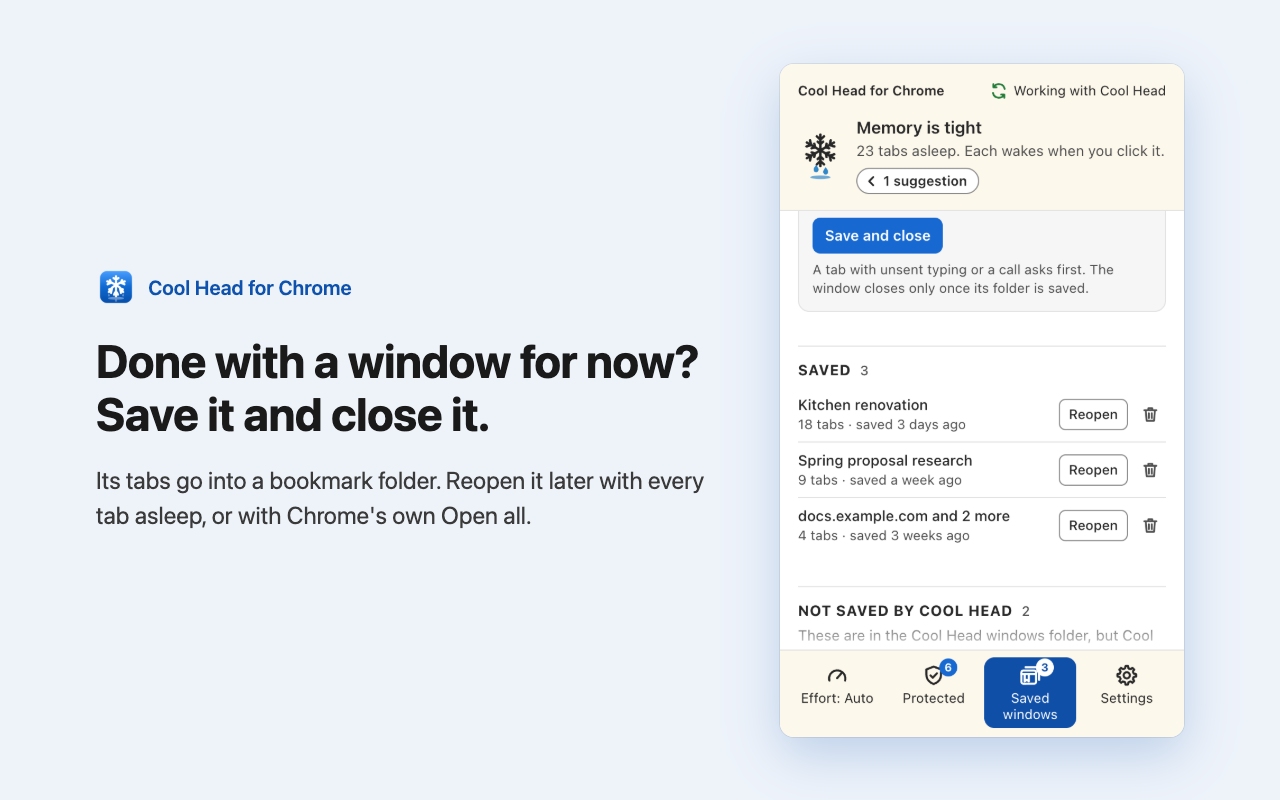
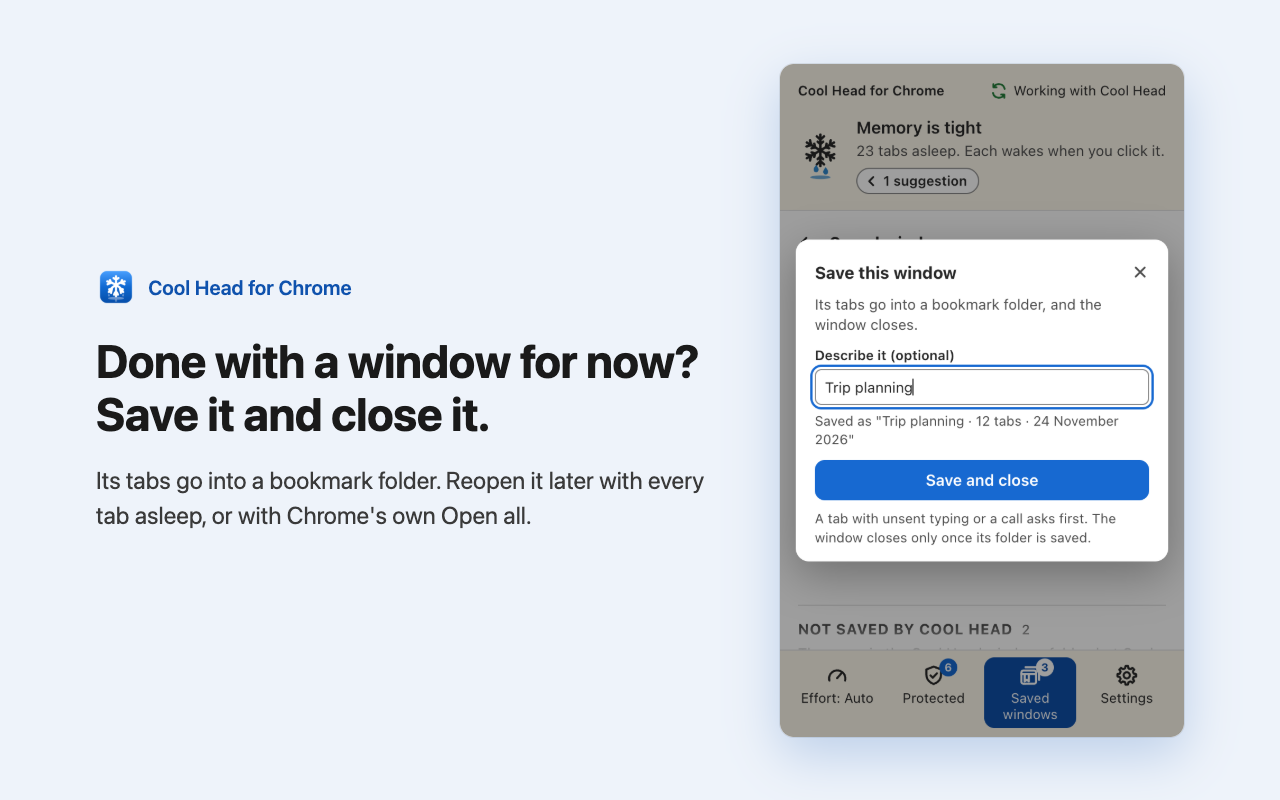
Cool Head for Chrome: a save dialog for Save this window, and a back arrow on each tool
Saved windows shows Save this window at the top, which opens a dialog over the list with the words, the folder's name as it will be, any warning, and Save and close. Command-Shift-Y, now named Save this window, opens the dialog directly. Its X, Escape, or a click outside it goes back to the list; what is under it is inert while it is open. A save that leaves the window open says why in the dialog, and a tab found risky only at the press asks first, as the first press does.

Each tool has a back arrow beside its title in place of the X, which is kept for cancelling a task.

Assisted-by: Claude Code:claude-opus-5-5

Changed region(s): [[0.5938, 0.0625, 0.9375, 0.9375]]

diff --git a/Extension/chrome/popup/render.js b/Extension/chrome/popup/render.js
@@ -159,7 +159,7 @@ function protectedScreen(view, ui, on) {
     tabs.append(h('p', { class: 'lede', text: W.PROTECTED_LEDE }),
       h('ul', { class: 'tabs', 'aria-labelledby': 'p-tabs' }, view.held.tabs.map((r) => heldRow(r, ui, on))));
   }
-  const main = h('main', { class: 'middle', 'aria-label': W.PROTECTED }, screenTitle(W.PROTECTED, 'shield', on), tabs, sitesPart(view, on), extensionsPart(view, ui, on));
+  const main = h('main', { class: 'middle', 'aria-label': W.PROTECTED }, screenTitle(W.PROTECTED, on), tabs, sitesPart(view, on), extensionsPart(view, ui, on));
   return [band(view, ui, on), main, toolbar(view, ui, on)];
 }
 
@@ -306,7 +306,7 @@ function effortScreen(view, ui, on) {
   // What the chosen level is doing right now, when that's more than its line says (view.js).
   const status = l.status;
   const main = h('main', { class: 'middle', 'aria-label': W.LEVEL_LABEL },
-    screenTitle(W.LEVEL_LABEL, 'gauge', on),
+    screenTitle(W.LEVEL_LABEL, on),
     h('div', { class: 'levelrows', role: 'radiogroup', 'aria-label': W.LEVEL_LABEL }, rows),
     status ? h('p', { class: 'note', text: status }) : null,
     l.needs ? h('p', { class: 'note', id: 'auto-needs', text: l.needs }) : null);
@@ -354,8 +354,8 @@ function windowsTool(view, ui, on, tool) {
 
 // ---------- saved windows ----------
 
-// Save this window: a few words to name its folder, with the whole name shown as it will be, and Save and close.
-// Below, each saved window with Reopen and Remove, both asking first in the row itself; then anything in the parent
+// Save this window: a button that opens a dialog over the tool, with a few words to name its folder, the whole name
+// shown as it will be, and Save and close. Below, each saved window with Reopen and Remove, both asking first in the row itself; then anything in the parent
 // folder Cool Head didn't put there, with Tidy, which moves it out and never deletes it.
 function windowsScreen(view, ui, on) {
   const w = view.windows;
@@ -365,15 +365,24 @@ function windowsScreen(view, ui, on) {
     'data-key': 'window-words', oninput: (e) => on.windowWords(e.target.value),
     onkeydown: (e) => { if (e.key === 'Enter') on.saveWindow(e.target.value); } });
   const risky = ui.windowRisky && w.risky.length;
-  const save = h('section', { class: 'card', 'aria-labelledby': 'win-save-h' },
-    h('h2', { id: 'win-save-h', text: W.WINDOWS_SAVE_TITLE }),
-    h('p', { text: W.WINDOWS_SAVE_WHY }),
-    h('label', { class: 'field' }, W.WINDOWS_DESCRIBE, input),
-    h('p', { class: 'savedas', 'aria-live': 'polite', text: W.windowsSavedAs(name) }),
-    risky ? h('div', { class: 'warn', id: 'win-risky' }, icon('warn'), h('span', { text: W.windowsRisky(w.risky) })) : null,
-    h('div', { class: 'row' }, h('button', { class: 'btn primary', 'data-key': 'window-save', 'aria-describedby': risky ? 'win-risky' : null,
-      onclick: () => on.saveWindow(input.value) }, risky ? W.WINDOWS_SAVE_ANYWAY : W.WINDOWS_SAVE)),
-    h('p', { class: 'note', text: w.granted ? W.WINDOWS_SAVE_NOTE : `${W.WINDOWS_SAVE_NOTE} ${W.WINDOWS_ASKS}` }));
+  // The tool shows Save this window as a button; the dialog it opens sits over the tool, holding the words, the name
+  // as it will be, any warning, and Save and close. Its X goes back to the tool; the shortcut opens it directly.
+  const opener = h('div', { class: 'winopen' },
+    h('button', { class: 'btn primary wide', 'data-key': 'window-open', 'aria-haspopup': 'dialog', onclick: on.saveDialog }, W.SAVE_DIALOG_OPEN),
+    h('p', { class: 'note', text: W.SAVE_DIALOG_LEDE }));
+  const dialog = ui.saveDialog ? h('div', { class: 'veil', onclick: (e) => { if (e.target === e.currentTarget) on.closeDialog(); } },
+    h('section', { class: 'dialog', role: 'dialog', 'aria-modal': 'true', 'aria-labelledby': 'win-dlg-h', 'aria-describedby': 'win-dlg-p' },
+      h('div', { class: 'screenhead' }, h('h2', { id: 'win-dlg-h', text: W.SAVE_DIALOG_TITLE }),
+        h('button', { class: 'iconbtn', 'aria-label': W.CLOSE_DIALOG, title: W.CLOSE_DIALOG, 'data-key': 'close-dialog', onclick: on.closeDialog }, icon('x'))),
+      h('p', { class: 'lede', id: 'win-dlg-p', text: W.SAVE_DIALOG_LEDE }),
+      h('label', { class: 'field' }, W.WINDOWS_DESCRIBE, input),
+      h('p', { class: 'savedas', 'aria-live': 'polite', text: W.windowsSavedAs(name) }),
+      risky ? h('div', { class: 'warn', id: 'win-risky' }, icon('warn'), h('span', { text: W.windowsRisky(w.risky) })) : null,
+      // why the last Save didn't close the window; already said aloud, so not a live region itself
+      ui.windowSaid ? h('div', { class: 'warn', 'data-key': 'window-said' }, icon('warn'), h('span', { text: ui.windowSaid })) : null,
+      h('button', { class: 'btn primary wide', 'data-key': 'window-save', 'aria-describedby': risky ? 'win-risky' : null,
+        onclick: () => on.saveWindow(input.value) }, risky ? W.WINDOWS_SAVE_ANYWAY : W.WINDOWS_SAVE),
+      h('p', { class: 'note', text: w.granted ? W.WINDOWS_SAVE_NOTE : `${W.WINDOWS_SAVE_NOTE} ${W.WINDOWS_ASKS}` }))) : null;
   const saved = h('section', { class: 'part', 'aria-labelledby': 'win-list-h' },
     h('h3', { class: 'parthead', id: 'win-list-h' }, W.WINDOWS_SAVED, h('span', { class: 'count', text: String(w.saved.length) })));
   if (!w.saved.length) saved.append(h('p', { class: 'lede', text: W.WINDOWS_EMPTY }));
@@ -383,8 +392,11 @@ function windowsScreen(view, ui, on) {
     h('p', { class: 'lede', text: W.WINDOWS_OTHERS_WHY }),
     h('ul', { class: 'sitelist' }, w.others.map((o) => h('li', { class: 'ext' }, h('span', { class: 'tabmain' }, h('span', { class: 'tabtitle', title: o.title, text: o.title }))))),
     h('div', { class: 'row' }, h('button', { class: 'btn', 'data-key': 'win-tidy', onclick: on.tidyWindows }, W.WINDOWS_TIDY))) : null;
-  const main = h('main', { class: 'middle', 'aria-label': W.WINDOWS }, screenTitle(W.WINDOWS, 'windowSaved', on), save, saved, others);
-  return [band(view, ui, on), main, toolbar(view, ui, on)];
+  const main = h('main', { class: 'middle', 'aria-label': W.WINDOWS }, screenTitle(W.WINDOWS, on), opener, saved, others);
+  const parts = [band(view, ui, on), main, toolbar(view, ui, on)];
+  // While the dialog is open, everything under it is out of reach of the keyboard and screen readers.
+  if (dialog) for (const p of parts) p.inert = true;
+  return [...parts, dialog];
 }
 
 // A saved window: its words, with its count and age under them, Reopen, and a small bin to remove it. Either asks in
@@ -472,13 +484,12 @@ function startScreen(view, ui, on) {
 
 // ---------- settings ----------
 
-// A tool's title: its icon and name, and a close button, as Cool Head's tools have. The pill in the band, the band,
-// and the tool again go back home too.
-function screenTitle(title, ico, on) {
+// A tool's title: a back arrow before its name, which goes back a level, home; an X is kept for cancelling a task, as
+// Start a session and the save dialog do. The pill in the band, the band, and the tool again go back home too.
+function screenTitle(title, on) {
   return h('div', { class: 'screenhead' },
-    h('span', { class: 'headicon', 'aria-hidden': 'true' }, icon(ico)),
-    h('h2', { text: title }),
-    h('button', { class: 'iconbtn', 'aria-label': W.CLOSE_TOOL, title: W.CLOSE_TOOL, 'data-key': 'close-tool', onclick: on.home }, icon('x')));
+    h('button', { class: 'iconbtn back', 'aria-label': W.BACK, title: W.BACK, 'data-key': 'tool-back', onclick: on.home }, icon('back')),
+    h('h2', { text: title }));
 }
 
 function radio(name, value, checked, title, why, onchange) {
@@ -490,7 +501,7 @@ function radio(name, value, checked, title, why, onchange) {
 function settingsScreen(view, ui, on) {
   const st = view.settings;
   const main = h('main', { class: 'middle', 'aria-label': W.SETTINGS },
-    screenTitle(W.SETTINGS, 'gear', on),
+    screenTitle(W.SETTINGS, on),
     // while tabs are moving, how far along, with no button to start another move
     view.migrate?.running ? h('section', { class: 'card', 'aria-labelledby': 'mig-h' },
       h('h2', { id: 'mig-h', text: W.MIGRATE_SETTINGS }),
@@ -583,7 +594,7 @@ function migrateScreen(view, ui, on) {
         h('button', { class: 'btn', 'data-key': 'mig-later', onclick: on.migrateLater }, W.MIGRATE_LATER)));
   }
   const main = h('main', { class: 'middle', 'aria-label': W.MIGRATE_TITLE },
-    screenTitle(W.MIGRATE_TITLE, 'tray', { home: m.running || m.result ? on.migrateClose : on.migrateLater }),
+    screenTitle(W.MIGRATE_TITLE, { home: m.running || m.result ? on.migrateClose : on.migrateLater }),
     h('section', { class: 'card migrate' }, ...body));
   return [band(view, ui, on), main, toolbar(view, ui, on)];
 }
@@ -597,7 +608,7 @@ export function render(root, view, ui, on) {
   const focusKey = document.activeElement?.dataset?.key;
   const scroll = root.querySelector('main')?.scrollTop ?? 0;
   const sameScreen = root.dataset.screen === ui.screen;
-  root.replaceChildren(...parts);
+  root.replaceChildren(...parts.filter(Boolean));
   root.dataset.screen = ui.screen;
   const main = root.querySelector('main');
   if (main && sameScreen) main.scrollTop = scroll;

diff --git a/Extension/chrome/popup/popup.js b/Extension/chrome/popup/popup.js
@@ -25,6 +25,11 @@ const ui = {
   windowWords: '',      // Saved windows: the words typed for the folder's name
   confirmWindow: null,  // { id, action: 'reopen' | 'remove' }: the saved window asking in its row
   windowRisky: false,   // Save and close was pressed with tabs that have unsent typing or a call; the next press closes
+  // The save dialog over Saved windows: opened by its button or the shortcut, closed by its X, Escape, a click
+  // outside it, leaving the tool, or the window closing with the popup. windowSaid is why a save didn't close the
+  // window (nothing to save, a tab not saved), shown in the dialog until it closes or Save is pressed again.
+  saveDialog: false,
+  windowSaid: null,
 };
 const BOOKMARKS = { permissions: ['bookmarks'] };
 let view = null;
@@ -61,11 +66,10 @@ async function refresh() {
   }
   // Tabs a suspender holds are offered once, when the popup first finds them, unless the person put it off; a move
   // under way, or its result, shows whenever the popup opens.
-  // the shortcut for saving a window opens the popup at Saved windows, ready for its words
+  // the shortcut for saving a window opens the popup at Saved windows with its dialog open, ready for the words
   if (view.openScreen === 'windows') {
     ui.screen = 'windows';
-    draw();
-    root.querySelector('[data-key="window-words"]')?.focus();
+    on.saveDialog();
     return;
   }
   const m = view.migrate;
@@ -106,6 +110,8 @@ async function openTool(screen) {
   ui.confirm = null;
   ui.confirmWindow = null;
   ui.windowRisky = false;
+  ui.saveDialog = false;
+  ui.windowSaid = null;
   draw();
 }
 
@@ -113,6 +119,24 @@ const on = {
   openSettings() { openTool('settings').catch(console.error); },
   openProtected() { openTool('protected').catch(console.error); },
   openWindows() { openTool('windows').catch(console.error); },
+  // The dialog opens with the words typed before, if any, and focus in its field; closing it goes back to the tool,
+  // focus on the button that opens it again.
+  saveDialog() {
+    ui.saveDialog = true;
+    ui.confirmWindow = null;
+    ui.windowRisky = false;
+    ui.windowSaid = null;
+    draw();
+    root.querySelector('[data-key="window-words"]')?.focus();
+  },
+  closeDialog() {
+    if (!ui.saveDialog) return;
+    ui.saveDialog = false;
+    ui.windowRisky = false;
+    ui.windowSaid = null;
+    draw();
+    root.querySelector('[data-key="window-open"]')?.focus({ preventScroll: true });
+  },
   // Typing updates the folder's name shown under the field, without a redraw, which would move the caret.
   windowWords(v) {
     ui.windowWords = v;
@@ -129,18 +153,28 @@ const on = {
       if (!ok) return;
       view = await ask({ type: 'view' });
     }
+    ui.windowSaid = null;
     if (view.windows.risky.length && !ui.windowRisky) {
       ui.windowRisky = true;
       draw();
       announce(W.windowsRisky(view.windows.risky));
       return;
     }
-    await act({ action: 'saveWindow', words, anyway: ui.windowRisky });
+    // Saved, the window closes and the popup with it; still here, the save didn't go through, and the dialog says why.
+    const r = await act({ action: 'saveWindow', words, anyway: ui.windowRisky });
+    // A tab found risky only now (the view was a moment old) asks as the first press does, so the next press saves.
+    if (!ui.saveDialog || !r.said) return;
+    if (!ui.windowRisky && r.view.windows.risky.length) ui.windowRisky = true;
+    else ui.windowSaid = r.said;
+    draw();
   },
+  // Asking in a row; Cancel puts focus back on the button that asked.
   askWindow(id, action) {
+    const was = ui.confirmWindow;
     ui.confirmWindow = id ? { id, action } : null;
     draw();
-    root.querySelector(`[data-key="${id ? `win-yes-${id}` : 'window-words'}"]`)?.focus({ preventScroll: true });
+    const back = was ? `win-${was.action}-${was.id}` : 'window-open';
+    root.querySelector(`[data-key="${id ? `win-yes-${id}` : back}"]`)?.focus({ preventScroll: true });
   },
   reopenWindow(id) { ui.confirmWindow = null; act({ action: 'reopenWindow', id }); },
   removeWindow(id) { ui.confirmWindow = null; act({ action: 'removeWindow', id }); },
@@ -303,6 +337,16 @@ function soon() {
   }, 200);
 }
 chrome.storage.onChanged.addListener(soon);
+
+// Escape closes the save dialog, back to the tool, rather than the whole popup; Tab stays inside the dialog, since
+// what is under it is inert.
+document.addEventListener('keydown', (e) => {
+  if (e.key === 'Escape' && ui.saveDialog) {
+    e.preventDefault();
+    e.stopPropagation();
+    on.closeDialog();
+  }
+}, { capture: true });
 for (const ev of [chrome.tabs.onUpdated, chrome.tabs.onRemoved, chrome.tabs.onCreated, chrome.tabs.onActivated]) ev.addListener(soon);
 
 refresh().catch((e) => {

diff --git a/Extension/chrome/popup/popup.css b/Extension/chrome/popup/popup.css
@@ -38,7 +38,7 @@ svg { flex: none; }
 .vh { position: absolute !important; width: 1px; height: 1px; margin: -1px; padding: 0; overflow: hidden; clip: rect(0 0 0 0); white-space: nowrap; border: 0; }
 
 /* Chrome caps a popup at 600 px: the band and the level bar stay put; the middle scrolls. */
-.popup { width: 360px; max-height: 600px; display: flex; flex-direction: column; overflow: hidden; background: var(--bg); }
+.popup { position: relative; width: 360px; max-height: 600px; display: flex; flex-direction: column; overflow: hidden; background: var(--bg); }
 .popup > header, .popup > footer { flex: none; }
 .popup > main { flex: 1 1 auto; min-height: 0; overflow-y: auto; }
 .popup > main.more-below { -webkit-mask-image: linear-gradient(to bottom, #000 calc(100% - 28px), rgba(0, 0, 0, 0.25)); mask-image: linear-gradient(to bottom, #000 calc(100% - 28px), rgba(0, 0, 0, 0.25)); }
@@ -158,8 +158,7 @@ button.tabtitle.show:hover svg { color: var(--accent); }
 .sub { font-size: 12px; font-weight: 600; letter-spacing: 0.5px; color: var(--muted); margin: 4px 0 2px; text-transform: uppercase; }
 .more { display: flex; align-items: center; gap: 6px; min-height: 32px; padding: 0 6px; border: 0; background: transparent; color: var(--accent); font-weight: 600; font-size: 13px; cursor: pointer; }
 .screenhead { display: flex; align-items: center; gap: 8px; }
-.screenhead .headicon { display: inline-flex; color: var(--accent); }
-.screenhead .headicon .ico { width: 18px; height: 18px; }
+.screenhead .iconbtn.back { margin: 0 -2px 0 -6px; color: var(--text); }   /* the arrow lines up with the text below it */
 .screenhead .iconbtn { margin-right: -6px; }
 .levelrows { margin-top: 10px; }
 .screenhead h2 { flex: 1; font-size: 15px; margin: 0; }
@@ -287,3 +286,14 @@ button.tabtitle.show:hover svg { color: var(--accent); }
 .savedwin.asking.remove { background: var(--fill); }
 .savedwin.asking .why { color: var(--text); }
 .btn.danger.solid { background: var(--danger); border-color: var(--danger); color: light-dark(#FFFFFF, #2B0A07); font-weight: 600; }   /* white on the light red, near black on the dark one: 4.5 to 1 either way */
+
+/* Save this window: the button in the tool, and the dialog it opens over the popup (the veil fills .popup, not the
+   page, which can be wider than the popup). A lighter edge marks the dialog on the dark veil, where a shadow can't. */
+.winopen { margin: 0; }
+.winopen .note { margin-top: 6px; }
+.veil { position: absolute; inset: 0; z-index: 10; display: flex; align-items: center; padding: 14px; overflow-y: auto; background: rgba(0, 0, 0, .38); }
+.dialog { width: 100%; min-width: 0; margin: auto 0; padding: 14px 16px 12px; border-radius: 12px; background: var(--bg); color: var(--text);
+  border: 1px solid light-dark(transparent, #5A5A5A); box-shadow: 0 12px 40px rgba(0, 0, 0, .3); }
+.dialog .lede { margin: 6px 0 10px; }
+.dialog .btn.wide { margin-top: 10px; }
+.dialog .note { margin: 8px 0 0; }

diff --git a/Extension/chrome/dev/preview.js b/Extension/chrome/dev/preview.js
@@ -110,7 +110,8 @@ if (protectedScreen) {
   ], null, 'self', new Set(['Tab napper']));
 }
 
-// Saved windows (made-up folders): ?screen=windows, windows-reopen, windows-remove, windows-empty
+// Saved windows (made-up folders): ?screen=windows, windows-reopen, windows-remove, windows-empty, and the save dialog:
+// windows-dialog, windows-dialog-risky (a tab with unsent typing), windows-dialog-failed (a tab not saved)
 view.windows = {
   tabsHere: 12, defaultWords: 'mail.example.com and 4 more', day: '24 November 2026', granted: screen !== 'windows-empty',
   saved: screen === 'windows-empty' ? [] : [
@@ -123,6 +124,9 @@ view.windows = {
 if (screen.startsWith('windows')) ui.screen = 'windows';
 if (screen === 'windows-reopen') { ui.confirmWindow = { id: 'f1', action: 'reopen' }; ui.windowWords = 'Trip planning'; }
 if (screen === 'windows-remove') ui.confirmWindow = { id: 'f2', action: 'remove' };
+if (screen.startsWith('windows-dialog')) { ui.saveDialog = true; ui.windowWords = 'Trip planning'; }
+if (screen === 'windows-dialog-risky') { view.windows.risky = ['Travel expense form']; ui.windowRisky = true; }
+if (screen === 'windows-dialog-failed') ui.windowSaid = W.WINDOWS_FAILED;
 
 const noop = () => {};
 const on = new Proxy({}, { get: () => noop });
@@ -133,6 +137,7 @@ document.body.dataset.height = String(Math.ceil(root.getBoundingClientRect().bot
 // ?scroll=end, or a number of pixels, or the id of a part to show at the top
 { const m = root.querySelector('main'); const v = q.get('scroll'); if (m && v) m.scrollTop = v === 'end' ? m.scrollHeight : /^\d+$/.test(v) ? Number(v) : (root.querySelector(`#${v}`)?.offsetTop ?? 0) - m.offsetTop; }
 
+if (screen.startsWith('windows-dialog')) { const i = root.querySelector('[data-key="window-words"]'); i.focus(); i.setSelectionRange(i.value.length, i.value.length); }
 if (screen === 'confirm') root.querySelector(`[data-key="close-${form.id}"]`).focus();
 if (screen === 'protected-ext') {
   const main = root.querySelector('main');

diff --git a/Extension/chrome/src/logic/words.js b/Extension/chrome/src/logic/words.js
@@ -449,8 +449,11 @@ export const SHORTCUT_OTHERS = 'Other tabs in this window';
 // windows never pile up (decided 24 November 2026).
 export const WINDOWS = 'Saved windows';
 export const WINDOWS_FOLDER = 'Cool Head windows';
-export const WINDOWS_SAVE_TITLE = 'Save this window and close it';
-export const WINDOWS_SAVE_WHY = "Its tabs go into a bookmark folder, so you can open them again later, here or with Chrome's own Open all in new window.";
+// the tool's button and the dialog it opens; the dialog's X cancels, back to the tool
+export const SAVE_DIALOG_OPEN = 'Save this window';
+export const SAVE_DIALOG_TITLE = 'Save this window';
+export const SAVE_DIALOG_LEDE = 'Its tabs go into a bookmark folder, and the window closes.';
+export const CLOSE_DIALOG = 'Cancel';
 export const WINDOWS_DESCRIBE = 'Describe it (optional)';
 export const WINDOWS_DESCRIBE_HINT = 'Trip planning';
 export const windowFolderName = (words, n, day) => `${words} · ${n} ${n === 1 ? 'tab' : 'tabs'} · ${day}`;
@@ -480,4 +483,4 @@ export const WINDOWS_REOPEN_FAILED = "Not every tab could be reopened, so the fo
 export const WINDOWS_REMOVED = 'Removed the folder.';
 export const windowsTidied = (n) => `Moved ${n} ${n === 1 ? 'bookmark' : 'bookmarks'} to Other bookmarks.`;
 export const WINDOWS_GONE = 'That folder is no longer in your bookmarks.';
-export const SHORTCUT_WINDOW = 'Save and close this window';
+export const SHORTCUT_WINDOW = 'Save this window';

diff --git a/Extension/chrome/src/worker.js b/Extension/chrome/src/worker.js
@@ -1159,8 +1159,8 @@ async function sleepOtherTabs(tab) {
 }
 
 chrome.commands.onCommand.addListener((command, tab) => {
-  // Save and close this window opens the popup at Saved windows, for its few words and, the first time, Chrome's
-  // question about bookmarks, which only a page can ask
+  // Save this window opens the popup at Saved windows with its save dialog open, for its few words and, the first
+  // time, Chrome's question about bookmarks, which only a page can ask
   if (command === 'save-window') {
     store.save({ popupScreen: 'windows' }).then(() => chrome.action.openPopup()).catch(oops);
     return;

diff --git a/Extension/chrome/popup/icons.js b/Extension/chrome/popup/icons.js
@@ -14,6 +14,7 @@ export const PATHS = {
   syncOff: '<path d="M13.2 6.2A5.3 5.3 0 0 0 3.4 4.6"/><path d="M3.1 1.9v2.9H6"/><path d="M2.8 9.8a5.3 5.3 0 0 0 9.8 1.6"/><path d="M12.9 14.1v-2.9H10"/><path d="M2 2l12 12"/>',
   chevRight: '<path d="M6 3.5L10.5 8 6 12.5"/>',
   chevDown: '<path d="M3.5 6L8 10.5 12.5 6"/>',
+  back: '<path d="M13 8H3.5M7.5 4L3.5 8l4 4"/>',   // an arrow: back a level, beside a tool's title
   chevLeft: '<path d="M10 3.5L5.5 8 10 12.5"/>',
   x: '<path d="M4 4l8 8M12 4l-8 8"/>',
   check: '<path d="M3.2 8.4l3 3 6.6-7"/>',

diff --git a/Extension/chrome/store/make-images.py b/Extension/chrome/store/make-images.py
@@ -34,7 +34,7 @@ SHOTS = [
     ("1-tabs", "home-light.png", "home", "light", "Tabs you aren't using go to sleep, so Chrome holds less memory.", "A sleeping tab stays in your tab bar and reloads when you click it. Nothing closes."),
     ("2-extensions", "protected-extensions-light.png", "protected-ext", "light", "Extensions you don't need pause for a while, then come back on by themselves.", "Nothing is removed. During a session, or when memory is tight, they give back their memory. Password managers, blockers, VPNs, and security tools stay on."),
     ("3-protected", "protected-light.png", "held", "light", "Calls, sound, unsent typing, and sites you choose stay awake.", "Protected shows each tab it keeps loaded and why, so you choose: keep it, sleep it, or close it."),
-    ("4-windows", "saved-windows-light.png", "windows", "light", "Done with a window for now? Save it and close it.", "Its tabs go into a bookmark folder. Reopen it later with every tab asleep, or with Chrome's own Open all."),
+    ("4-windows", "save-window-light.png", "windows-dialog", "light", "Done with a window for now? Save it and close it.", "Its tabs go into a bookmark folder. Reopen it later with every tab asleep, or with Chrome's own Open all."),
     ("5-alone", "alone-dark.png", "alone", "dark", "Works on its own, or with Cool Head on a Mac.", "On its own, you set the Effort: how many tabs stay loaded. With Cool Head, a free Mac app, tabs sleep only when memory is actually short."),
 ]
 

diff --git a/Extension/chrome/README.md b/Extension/chrome/README.md
@@ -6,7 +6,7 @@ Get it from the [Chrome Web Store](https://chromewebstore.google.com/detail/pobn
 
 ## What it does
 
-The menu has a bottom bar like Cool Head's: Effort, Protected, Saved windows, and Settings. Each opens in the middle of the menu, and the pill under the top band's title goes back home.
+The menu has a bottom bar like Cool Head's: Effort, Protected, Saved windows, and Settings. Each opens in the middle of the menu; the back arrow beside its title, or the pill under the top band's title, goes back home. An X is kept for cancelling a task, such as Start a session or saving a window.
 
 - **Effort.** Light keeps your 5 most used tabs loaded, Balanced 3, Focus only the tab you're on; the others sleep 30 seconds after you leave them (or at once, in Settings), so going back and forth within half a minute never reloads. Auto, with Cool Head, sleeps nothing while memory is fine; when memory slows your Mac, it sleeps tabs you haven't used for 30 minutes, one at a time, oldest first (5 minutes when memory is very tight), and stops after memory has been fine for 5 minutes.
 - **Protected: tabs.** Every tab that doesn't sleep on its own, with the reason: on a call, sharing your screen, unsent typing, playing sound, kept by you, on a site you keep awake, or pinned. Each has Keep, Sleep, and Close. Sleep or Close on a call or on unsent typing asks once first, since it would end the call or lose the typing. Keep isn't offered on a pinned tab, which stays loaded already.
@@ -15,7 +15,7 @@ The menu has a bottom bar like Cool Head's: Effort, Protected, Saved windows, an
 - **Start a session.** For a meeting or a task: it suggests the tab you're on, tabs on a call or playing sound, tabs you kept, and tabs used in the last 10 minutes, all ticked; "This window only" ticks this window's tabs and unticks the rest. Starting sleeps the rest; a tab you open or switch to joins. Ending offers to save the session's tabs as a named tab group; nothing reloads.
 - **Keep.** On any tab, from Protected or by right-clicking the page: that tab, not its address, stays loaded until you un-keep it, and Chrome's own Memory Saver is told to leave it too. After Chrome restarts, kept tabs are found again by window, position, and address; when two match, the menu asks which.
 - **Duplicates.** Pages open more than once in this Chrome profile, with one button to close the extra copies, keeping the one you used last. Never automatic.
-- **Saved windows.** Save a window you're done with for now: a few words describe it, and its tabs go into a bookmark folder named with those words, how many tabs, and the date, such as "Trip planning · 12 tabs · 24 November 2026"; then the window closes. Without words, the window's main site names it. A tab with unsent typing or a call asks first, and the window closes only once the folder is saved. The folders live in "Cool Head windows" under Other bookmarks, so Chrome's own Open all in new window works too, even without this extension. Saved windows lists them, each with Reopen, which opens every tab asleep in a new window and then removes the folder, and a bin to delete it; both ask first. Anything else in that folder is listed apart, with Tidy, which moves it to Other bookmarks and never deletes it. Command-Shift-Y on a Mac (Ctrl+Shift+Y elsewhere) opens Saved windows, ready for the words. Bookmarks permission is asked for the first time.
+- **Saved windows.** Save a window you're done with for now: Save this window, at the top of Saved windows, opens a small dialog over the list, where a few words describe it, and its tabs go into a bookmark folder named with those words, how many tabs, and the date, such as "Trip planning · 12 tabs · 24 November 2026"; then the window closes. Without words, the window's main site names it. A tab with unsent typing or a call asks first, and the window closes only once the folder is saved. The folders live in "Cool Head windows" under Other bookmarks, so Chrome's own Open all in new window works too, even without this extension. Saved windows lists them, each with Reopen, which opens every tab asleep in a new window and then removes the folder, and a bin to delete it; both ask first. Anything else in that folder is listed apart, with Tidy, which moves it to Other bookmarks and never deletes it. Command-Shift-Y on a Mac (Ctrl+Shift+Y elsewhere) opens that dialog directly, ready for the words; its X, Escape, or a click outside it goes back to the list, and the words typed stay until the menu closes. Bookmarks permission is asked for the first time.
 - **Keyboard shortcuts.** Command-Shift-S on a Mac (Ctrl+Shift+S elsewhere) puts the tab you're on to sleep and shows the next awake tab to its right, so pressing it again sleeps one tab after another. Another, with no key until you choose one, puts the other tabs in the window to sleep, keeping their protections. Chrome keeps every extension's keys on its own shortcuts page, which Settings opens; Chrome gives the default key only if no other extension holds it.
 - **Offline.** On by default: no tab sleeps on its own while you're offline, since a sleeping tab couldn't reload until you're back. When you're offline and memory is low, the menu says so and points to the setting.
 - **Moving from a tab suspender.** Suspenders such as The Marvellous Suspender swap each tab for a page of their own, which Chrome closes if the suspender is removed. When the menu finds such tabs, it offers to move them: each opens once at its real address and goes straight to sleep, one at a time, so memory never jumps; then it offers to remove the suspender, which Chrome asks you to confirm. Do it later keeps the offer in Settings. It reads The Marvellous Suspender, The Great Suspender 2026, Tab Suspender, Tiny Suspender, tabssuspender.com's Tab Suspender, and Workona's Tab Suspender.
@@ -79,7 +79,7 @@ The store build has the same code with the log off (`src/build.js`), so it recor
 ## Tests
 
 - `node --test` (Node 22 or later): the rules (which tabs sleep at each level, Auto, sessions, keep after a restart, duplicates, held reasons, the safe list), what the popup says alone, together, and after the link drops, the link's messages and both framings against a mock port and a real mock host process, the voice (no em dashes or exclamation marks, the Oxford comma, times as 2:15pm), and every color pair's contrast in light and dark.
-- `CFT="<Chrome for Testing binary>" node tools/run-browser-tests.mjs <scratch folder>`: loads the extension into Chrome for Testing on a throwaway profile in the scratch folder, with the mock host in that profile's own `NativeMessagingHosts` folder, and checks the fixed ID and setup; alone, linked, very tight memory, a one-click request, Cool Head closing, the helper ending and relinking; Focus with pinned and kept tabs; a session saved as a group; the popup drawing with no errors; and, in a copy with access to all sites, unsent typing, a call through a fake camera, and resting a second extension. It quits only the Chrome it started.
+- `CFT="<Chrome for Testing binary>" node tools/run-browser-tests.mjs <scratch folder>`: loads the extension into Chrome for Testing on a throwaway profile in the scratch folder, with the mock host in that profile's own `NativeMessagingHosts` folder, and checks the fixed ID and setup; alone, linked, very tight memory, a one-click request, Cool Head closing, the helper ending and relinking; Focus with pinned and kept tabs; a session saved as a group; the popup drawing with no errors; the save dialog's focus, Escape, and messages; and, in a copy with access to all sites, unsent typing, a call through a fake camera, and resting a second extension. It quits only the Chrome it started.
 - `dev/render-previews.sh <output folder> <scratch folder>`: screenshots the real popup from made-up data ([dev/preview.html](dev/preview.html)) with headless Chrome on its own data folder.
 
 ## Testing by hand

diff --git a/Extension/chrome/store/listing.md b/Extension/chrome/store/listing.md
@@ -97,7 +97,7 @@ The extension works on its own; the Cool Head Mac app is optional and not needed
 3. Click "Start a session", keep a few tabs ticked, and press Start: the unticked tabs sleep. End the session from the menu.
 4. Press Command-Shift-S (Ctrl+Shift+S on Windows and Linux) on a tab: it sleeps, and the next awake tab to its right shows. Press it again to sleep that one too.
 5. Optional: in Settings, turn on "Keep tabs with unsent typing or a call awake" and allow access, then type in a form without sending it; that tab is held as "Unsent typing". With that access on, a tab that goes to sleep shows "zzZ" before its title.
-6. Click Saved windows in the bottom bar, then Save and close, and allow bookmarks when Chrome asks: the window closes and appears under Saved. Reopen brings its tabs back asleep in a new window and removes the folder.
+6. Click Saved windows in the bottom bar, then Save this window, then Save and close, and allow bookmarks when Chrome asks: the window closes and appears under Saved. Reopen brings its tabs back asleep in a new window and removes the folder. Command-Shift-Y (Ctrl+Shift+Y) opens the same save dialog directly.
 No account or sign-in is needed.
 ```
 

diff --git a/changes/added/chrome-saved-windows.md b/changes/added/chrome-saved-windows.md
@@ -1,1 +1,1 @@
-- Cool Head for Chrome: Saved windows. Save a window you're done with for now into a bookmark folder named with a few words, how many tabs, and the date, and close it; reopen it later with every tab asleep, which removes the folder, or open it with Chrome's own Open all. Command-Shift-Y (Ctrl+Shift+Y) opens it.
+- Cool Head for Chrome: Saved windows. Save a window you're done with for now into a bookmark folder named with a few words, how many tabs, and the date, and close it; reopen it later with every tab asleep, which removes the folder, or open it with Chrome's own Open all. Command-Shift-Y (Ctrl+Shift+Y) saves the window you're in: it opens the save dialog, ready for its words.

diff --git a/changes/changed/chrome-back-arrow.md b/changes/changed/chrome-back-arrow.md
@@ -1,0 +1,1 @@
+- Cool Head for Chrome: each tool (Effort, Protected, Saved windows, Settings, and Moving from a tab suspender) has a back arrow beside its title in place of the X, since it goes back a level; an X now only cancels a task, as in Start a session and the new save dialog.
